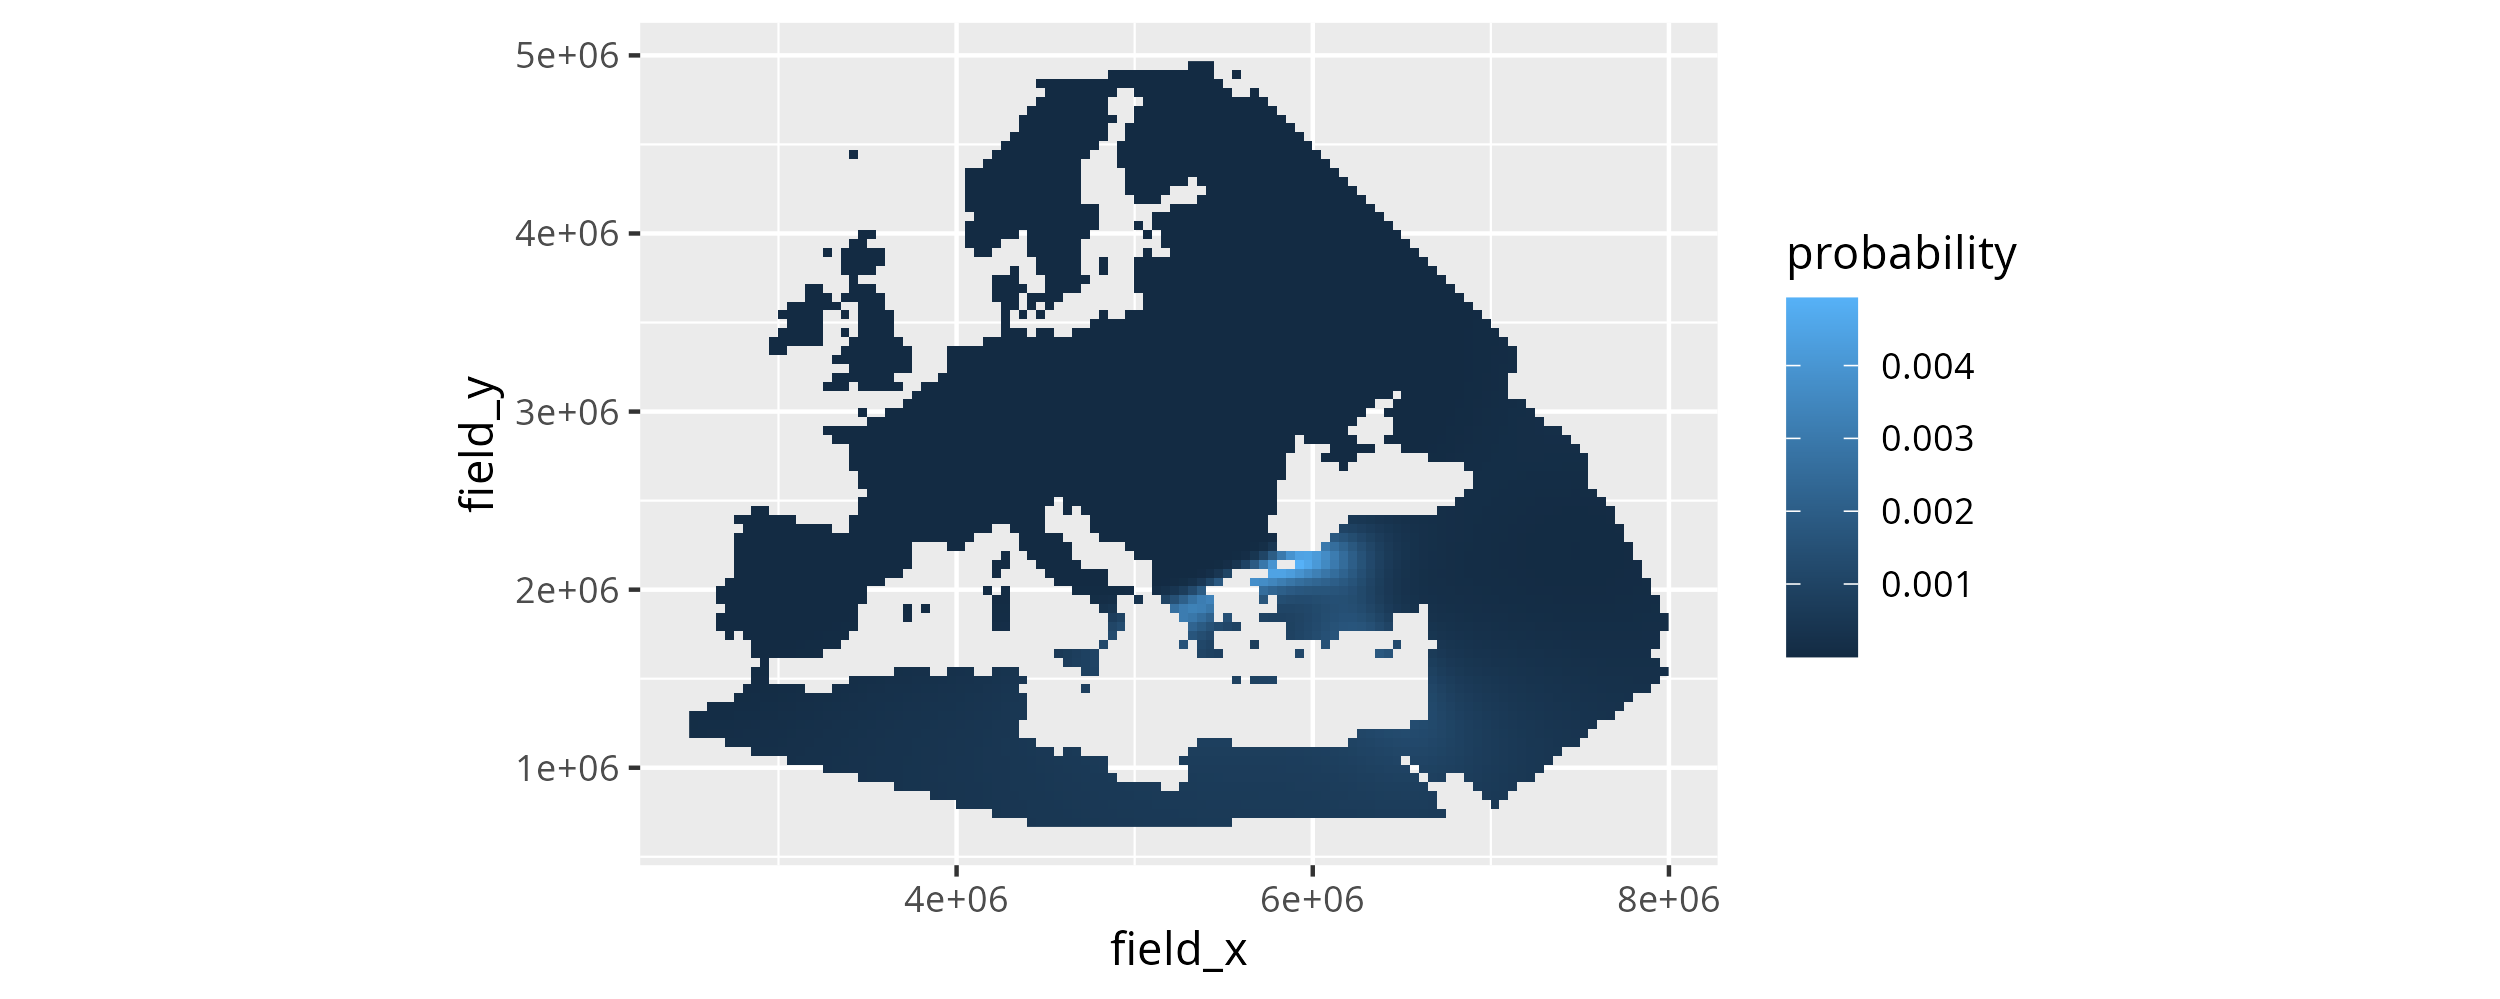
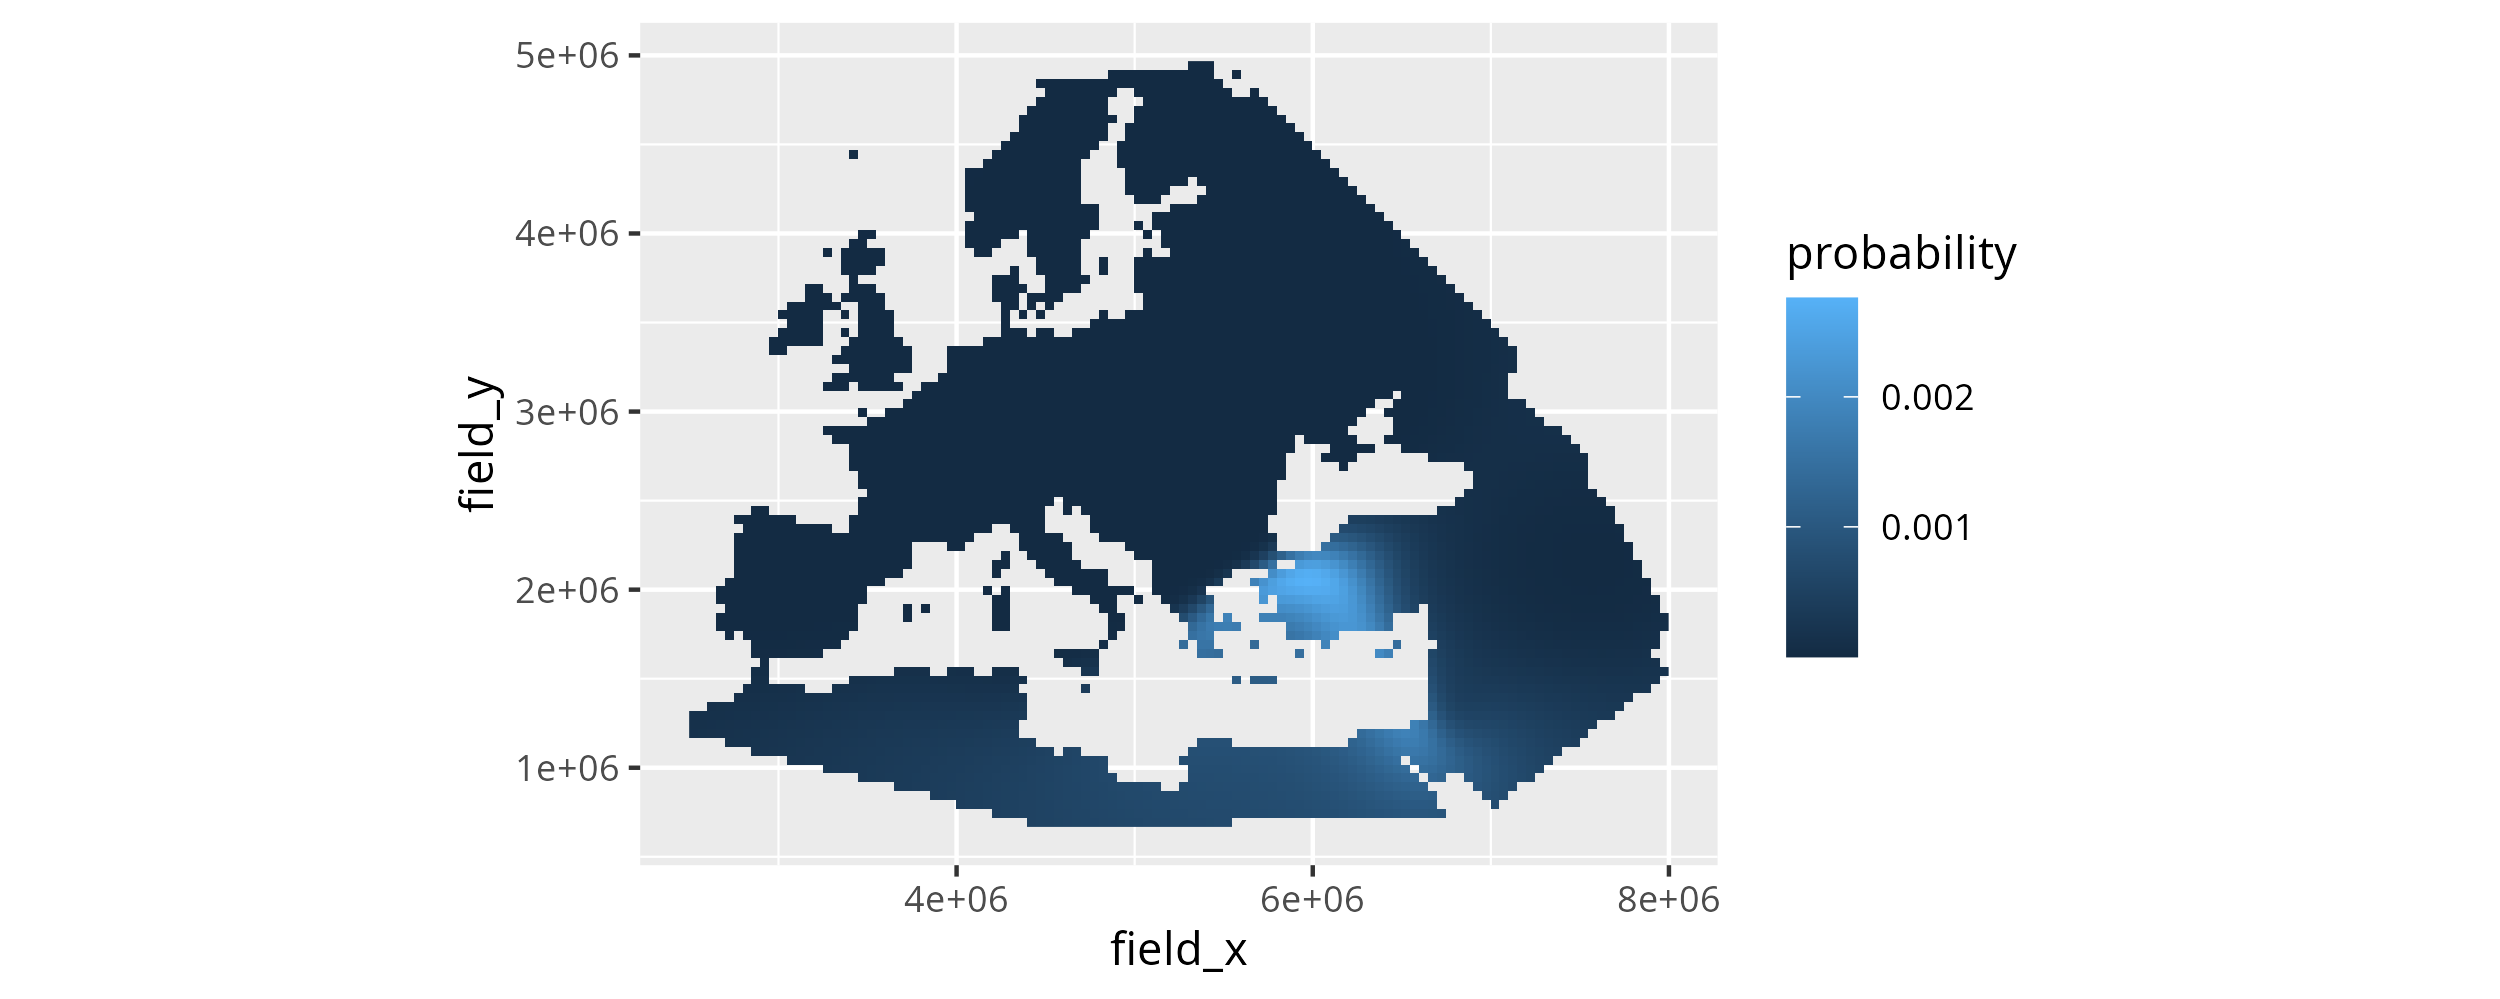
better time slice 6500 -> 6800

diff --git a/docs/basic.md b/docs/basic.md
@@ -386,11 +386,11 @@ The search time can be specified as an integer vector of years: e.g. `search_tim
 For this example we will set the search time to an `"absolute"` value.
 
 ```r
-search_time = -6500
+search_time = -6800
 search_time_mode = "absolute"
 ```
 
-This will search at exactly one point in time; a single timeslice 6500 BC.
+This will search at exactly one point in time; a single timeslice 6800 BC.
 
 #### Normalization
 
@@ -412,7 +412,7 @@ search_result <- mobest::locate(
   search_independent = search_ind,
   search_dependent   = search_dep,
   search_space_grid  = spatial_pred_grid,
-  search_time        = -6500,
+  search_time        = -6800,
   search_time_mode   = "absolute"
 )
 ```
@@ -503,7 +503,7 @@ cowplot::plot_grid(p_C1, p_C2, labels = c("C1", "C2"))
 ```
 
 ```{figure} img/basic/search_map_simple_C1_C2.png
-The similarity probability search results for the sample Stuttgart for 6500 BC.
+The similarity probability search results for the sample Stuttgart for 6800 BC.
 ```
 
 ### Combining the information from multiple dependent variables
@@ -530,7 +530,7 @@ ggplot() +
 ```
 
 ```{figure} img/basic/search_map_simple_combined.png
-The combined ($\text{C1}*\text{C2}$) similarity probability search results for the sample Stuttgart for 6500 BC.
+The combined ($\text{C1}*\text{C2}$) similarity probability search results for the sample Stuttgart for 6800 BC.
 ```
 
 This figure is the main result of this write-up.

diff --git a/docs/multisearch.md b/docs/multisearch.md
@@ -18,7 +18,7 @@ search_result <- mobest::locate(
   search_independent = search_ind,
   search_dependent   = search_dep,
   search_space_grid  = spatial_pred_grid,
-  search_time        = c(-6500, -5700),
+  search_time        = c(-6800, -5700),
   search_time_mode   = "absolute"
 )
 search_product <- mobest::multiply_dependent_probabilities(search_result)

diff --git a/docs/plot.md b/docs/plot.md
@@ -50,7 +50,7 @@ ggplot() +
   ) +
   annotate(
     "text",
-    label = "6500BC",
+    label = "6800BC",
     x = Inf, y = Inf, hjust = 1.1, vjust = 1.5
   )
 ```
